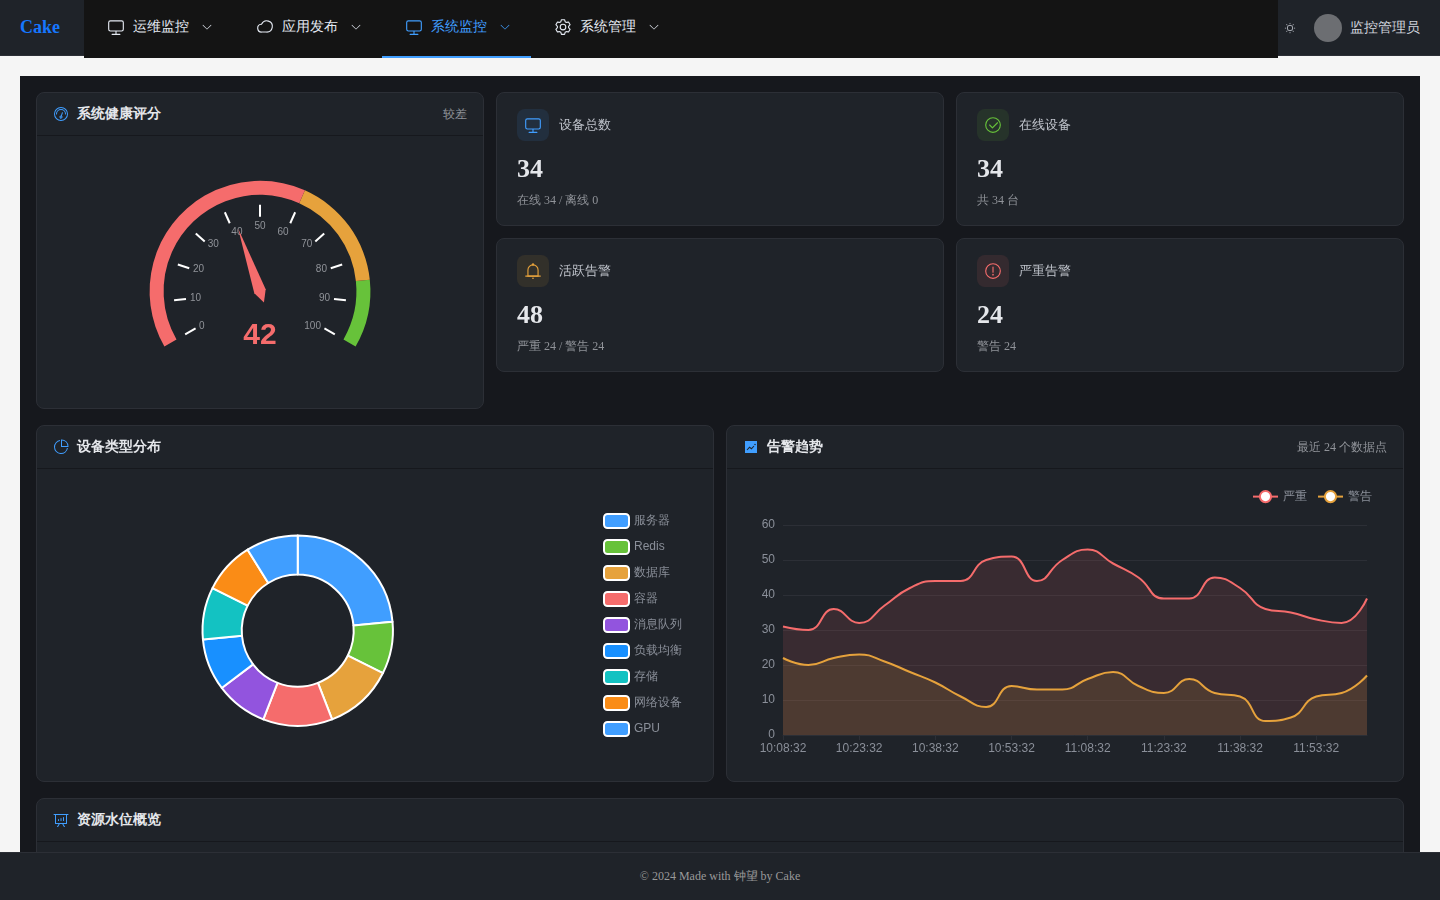
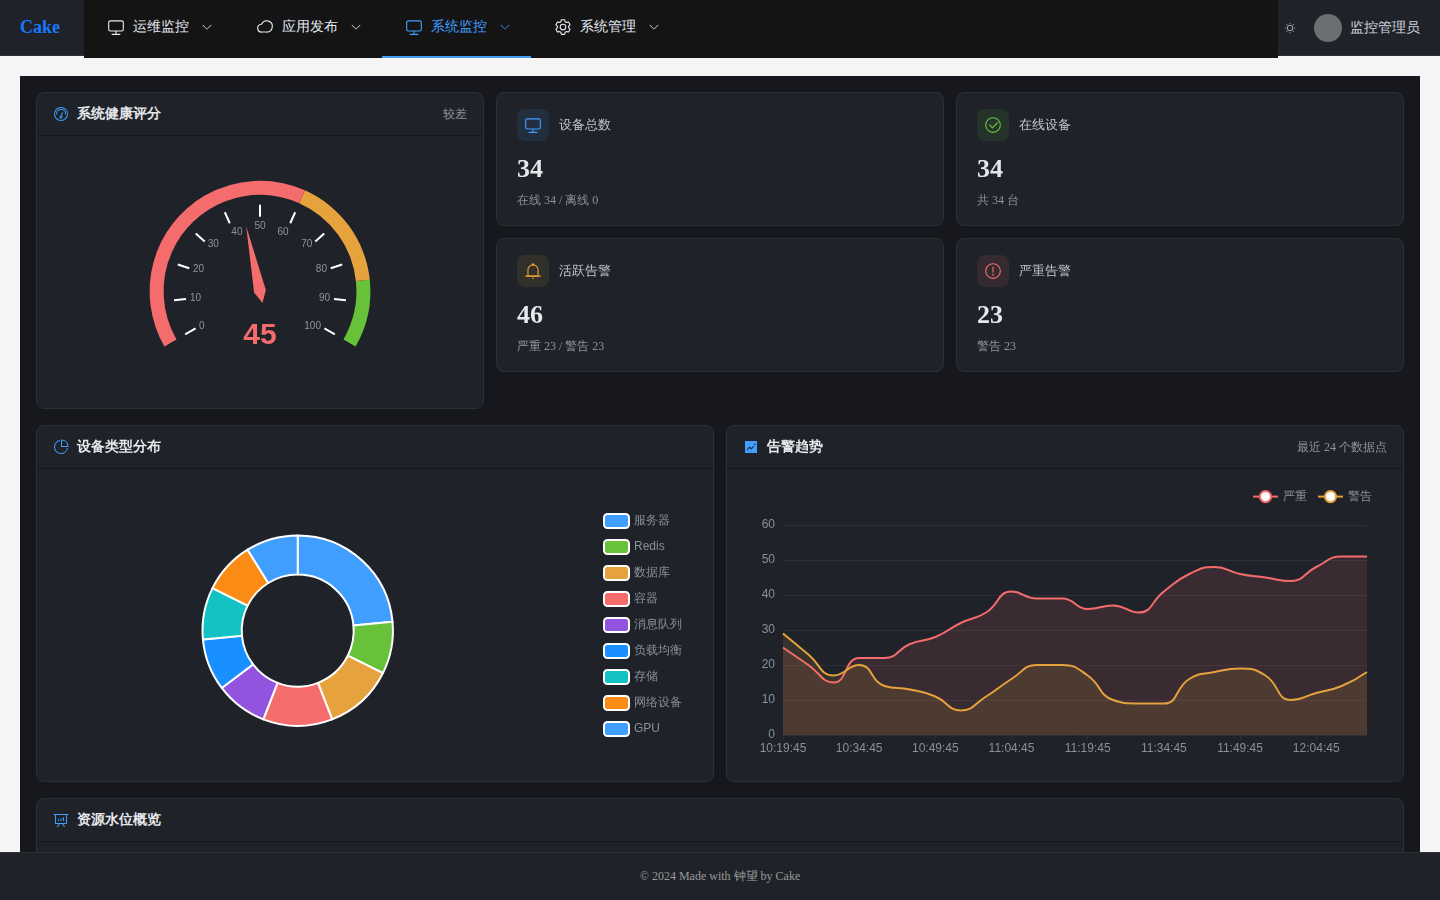
前端深色一致性：补齐嵌套面板到 var(--cm-*)（vue3 + vue2）
修复深色下仍为浅底的嵌套面板残留，使深色完全一致：
- 共享 MonitorLayout（各设备监控页左侧设备列表 + 头部）、InfoTable、LeftHostList、
  InboxMessage、IngressPanel、SecurityConfig、SystemAnalysis、MonitorTopology 等的
  <style> 结构色(背景/边框/文本)迁移至 var(--cm-*)；
- skin.less 新增 --cm-active-soft（浅 #ecf5ff / 深 rgba(64,158,255,.16)）用于选中态高亮；
- 亮色值不变（令牌=原 hex）。
- 更新 docs/screenshots 深色截图（Server/主机列表左侧面板已一致，新增 Redis/K8s）。
vue3、vue2 vite build 通过；Playwright 复测深色一致。

https://claude.ai/code/session_013zSXAHGcZEmFW8zaF81149

diff --git a/vue3/src/components/monitor/MonitorLayout.vue b/vue3/src/components/monitor/MonitorLayout.vue
@@ -174,8 +174,8 @@ onBeforeUnmount(clearTimer);
   &__side {
     width: 220px;
     flex-shrink: 0;
-    background: #fff;
-    border: 1px solid #ebeef5;
+    background: var(--cm-bg-card);
+    border: 1px solid var(--cm-border-light);
     border-radius: 8px;
     display: flex;
     flex-direction: column;
@@ -186,7 +186,7 @@ onBeforeUnmount(clearTimer);
     display: flex;
     gap: 8px;
     padding: 12px;
-    border-bottom: 1px solid #f0f2f5;
+    border-bottom: 1px solid var(--cm-border-light);
   }
 
   &__nav {
@@ -203,16 +203,16 @@ onBeforeUnmount(clearTimer);
     padding: 10px 12px;
     border-radius: 6px;
     cursor: pointer;
-    color: #606266;
+    color: var(--cm-text-regular);
     font-size: 14px;
     margin-bottom: 2px;
 
     &:hover {
-      background: #f5f7fa;
+      background: var(--cm-bg-soft);
     }
 
     &.active {
-      background: #ecf5ff;
+      background: var(--cm-active-soft);
       color: #409eff;
       font-weight: 500;
     }
@@ -230,8 +230,8 @@ onBeforeUnmount(clearTimer);
     align-items: center;
     justify-content: space-between;
     padding: 12px 16px;
-    background: #fff;
-    border: 1px solid #ebeef5;
+    background: var(--cm-bg-card);
+    border: 1px solid var(--cm-border-light);
     border-radius: 8px;
     margin-bottom: 12px;
   }
@@ -242,7 +242,7 @@ onBeforeUnmount(clearTimer);
     gap: 8px;
     font-size: 15px;
     font-weight: 600;
-    color: #303133;
+    color: var(--cm-text-primary);
 
     .el-icon {
       color: #409eff;
@@ -261,7 +261,7 @@ onBeforeUnmount(clearTimer);
 
   &__device-sub {
     float: right;
-    color: #c0c4cc;
+    color: var(--cm-text-placeholder);
     font-size: 12px;
   }
 

diff --git a/vue2/src/components/monitor/InfoTable.vue b/vue2/src/components/monitor/InfoTable.vue
@@ -47,35 +47,35 @@ export default {
   font-size: 13px;
 
   td {
-    border: 1px solid #ebeef5;
+    border: 1px solid var(--cm-border-light);
     padding: 9px 12px;
   }
 
   &__label {
-    background: #fafafa;
-    color: #606266;
+    background: var(--cm-bg-muted);
+    color: var(--cm-text-regular);
     width: 160px;
     white-space: nowrap;
   }
 
   &__value {
-    color: #303133;
+    color: var(--cm-text-primary);
     word-break: break-all;
   }
 
   &__tag {
     margin-left: 8px;
-    color: #909399;
+    color: var(--cm-text-secondary);
     font-size: 12px;
   }
 
   &__pad {
-    background: #fff;
+    background: var(--cm-bg-card);
     border-color: transparent;
   }
 
   tr:hover td:not(.info-table__pad) {
-    background: #f5f7fa;
+    background: var(--cm-bg-soft);
   }
 }
 </style>

diff --git a/vue2/src/components/monitor/MonitorLayout.vue b/vue2/src/components/monitor/MonitorLayout.vue
@@ -186,8 +186,7 @@ export default {
     display: flex;
     gap: @space-sm;
     padding: @space-md;
-    // 浅色保持原值 #f0f2f5；深色跟随边框
-    border-bottom: 1px solid #f0f2f5;
+    border-bottom: 1px solid var(--cm-border-light, @border-light);
   }
 
   &__nav {
@@ -213,7 +212,7 @@ export default {
     }
 
     &.active {
-      background: #ecf5ff;
+      background: var(--cm-active-soft, #ecf5ff);
       color: var(--cm-color-primary, @color-primary);
       font-weight: 500;
     }
@@ -270,15 +269,6 @@ export default {
     flex: 1;
     min-height: 0;
     overflow-y: auto;
-  }
-}
-
-[data-theme="dark"] .monitor-layout {
-  &__search {
-    border-bottom-color: var(--cm-border-light);
-  }
-  &__nav-item.active {
-    background: rgba(64, 158, 255, 0.16);
   }
 }
 </style>

diff --git a/vue3/src/components/monitor/InfoTable.vue b/vue3/src/components/monitor/InfoTable.vue
@@ -47,35 +47,35 @@ const groupedRows = computed(() => {
   font-size: 13px;
 
   td {
-    border: 1px solid #ebeef5;
+    border: 1px solid var(--cm-border-light);
     padding: 9px 12px;
   }
 
   &__label {
-    background: #fafafa;
-    color: #606266;
+    background: var(--cm-bg-muted);
+    color: var(--cm-text-regular);
     width: 160px;
     white-space: nowrap;
   }
 
   &__value {
-    color: #303133;
+    color: var(--cm-text-primary);
     word-break: break-all;
   }
 
   &__tag {
     margin-left: 8px;
-    color: #909399;
+    color: var(--cm-text-secondary);
     font-size: 12px;
   }
 
   &__pad {
-    background: #fff;
+    background: var(--cm-bg-card);
     border-color: transparent;
   }
 
   tr:hover td:not(.info-table__pad) {
-    background: #f5f7fa;
+    background: var(--cm-bg-soft);
   }
 }
 </style>

diff --git a/vue2/src/views/ops/components/LeftHostList.vue b/vue2/src/views/ops/components/LeftHostList.vue
@@ -86,15 +86,15 @@ export default {
 
 .host-item {
   padding: 10px 12px;
-  border-bottom: 1px solid #ebeef5;
+  border-bottom: 1px solid var(--cm-border-light);
   cursor: pointer;
 
   &:hover {
-    background-color: #f5f7fa;
+    background-color: var(--cm-bg-soft);
   }
 
   &.is-selected {
-    background-color: #f0f0f0;
+    background-color: var(--cm-border-lighter);
   }
 
   .host-item-title {
@@ -104,7 +104,7 @@ export default {
 
   .host-item-desc {
     font-size: 12px;
-    color: #909399;
+    color: var(--cm-text-secondary);
   }
 }
 </style>

diff --git a/vue2/src/styles/skin.less b/vue2/src/styles/skin.less
@@ -37,6 +37,9 @@
   --cm-color-danger: @color-danger;
   --cm-color-info: @color-info;
 
+  // 激活态高亮（导航选中底色）
+  --cm-active-soft: #ecf5ff;
+
   // 阴影
   --cm-shadow-card: @shadow-card;
 }
@@ -65,6 +68,9 @@
   --cm-color-warning: @color-warning;
   --cm-color-danger: @color-danger;
   --cm-color-info: @color-info;
+
+  // 激活态高亮（导航选中底色）—— 深色下使用半透明品牌色
+  --cm-active-soft: rgba(64, 158, 255, 0.16);
 
   // 阴影（深色下更柔和）
   --cm-shadow-card: 0 1px 4px rgba(0, 0, 0, 0.4);

diff --git a/vue3/src/styles/skin.less b/vue3/src/styles/skin.less
@@ -41,6 +41,9 @@
   --cm-success-soft: @success-soft;
   --cm-warning-soft: @warning-soft;
 
+  // 激活态高亮底（Element primary-light bg）
+  --cm-active-soft: #ecf5ff;
+
   // 终端
   --cm-terminal-bg: @terminal-bg;
   --cm-terminal-fg: @terminal-fg;
@@ -81,6 +84,9 @@ html.dark {
   --cm-danger-soft: #3a1f22;
   --cm-success-soft: #1f2e1c;
   --cm-warning-soft: #3a2f1c;
+
+  // 激活态高亮底（深色）
+  --cm-active-soft: rgba(64, 158, 255, 0.16);
 
   // 终端保持
   --cm-terminal-bg: @terminal-bg;

diff --git a/vue2/src/components/InboxMessage.vue b/vue2/src/components/InboxMessage.vue
@@ -151,7 +151,7 @@ export default {
 .message-list-wrapper {
   .message-toolbar {
     padding: 8px 24px 16px;
-    border-bottom: 1px solid #f0f0f0;
+    border-bottom: 1px solid var(--cm-border-lighter);
     display: flex;
     justify-content: space-between;
   }
@@ -170,7 +170,7 @@ export default {
     padding: 12px 24px;
     transition: all 0.3s;
     cursor: pointer;
-    border-bottom: 1px solid #f0f0f0;
+    border-bottom: 1px solid var(--cm-border-lighter);
 
     &.unread {
       background-color: #f0f7ff;

diff --git a/vue3/src/components/InboxMessage.vue b/vue3/src/components/InboxMessage.vue
@@ -142,7 +142,7 @@ onMounted(() => {
 .message-list-wrapper {
   .message-list-header {
     padding: 8px 0 16px;
-    border-bottom: 1px solid #f0f0f0;
+    border-bottom: 1px solid var(--cm-border-lighter);
     display: flex;
     justify-content: space-between;
   }
@@ -161,7 +161,7 @@ onMounted(() => {
     padding: 12px 8px;
     transition: all 0.3s;
     cursor: pointer;
-    border-bottom: 1px solid #f0f0f0;
+    border-bottom: 1px solid var(--cm-border-lighter);
 
     &.unread {
       background-color: #f0f7ff;

diff --git a/vue3/src/views/ops/components/LeftHostList.vue b/vue3/src/views/ops/components/LeftHostList.vue
@@ -94,10 +94,10 @@ onMounted(() => {
     .host-item {
       padding: 8px 12px;
       cursor: pointer;
-      border-bottom: 1px solid #f0f0f0;
+      border-bottom: 1px solid var(--cm-border-lighter);
 
       &.selected {
-        background-color: #f0f0f0;
+        background-color: var(--cm-border-lighter);
       }
 
       .host-name {

diff --git a/vue2/src/views/ci/components/IngressPanel.vue b/vue2/src/views/ci/components/IngressPanel.vue
@@ -180,7 +180,7 @@ export default {
   margin-bottom: 16px;
 }
 .json-preview {
-  background: #f5f7fa;
+  background: var(--cm-bg-soft);
   padding: 12px;
   font-size: 12px;
   max-height: 240px;

diff --git a/vue2/src/views/system/SecurityConfig.vue b/vue2/src/views/system/SecurityConfig.vue
@@ -139,7 +139,7 @@ export default {
 <style lang="less" scoped>
 .security-config-container {
   padding: 24px;
-  background: #fff;
+  background: var(--cm-bg-card);
   border-radius: 4px;
 
   h1 {